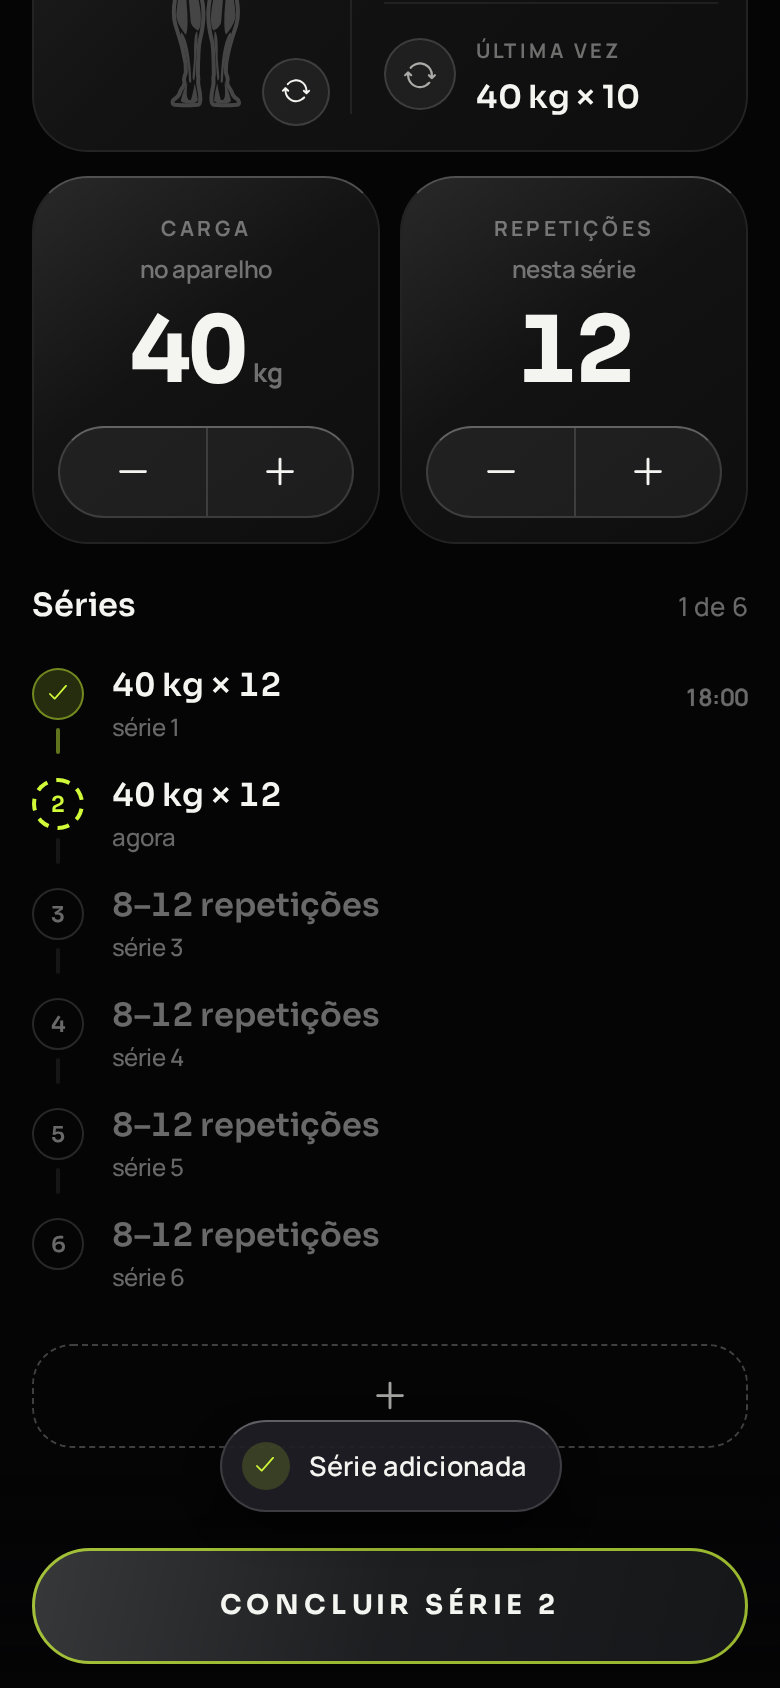
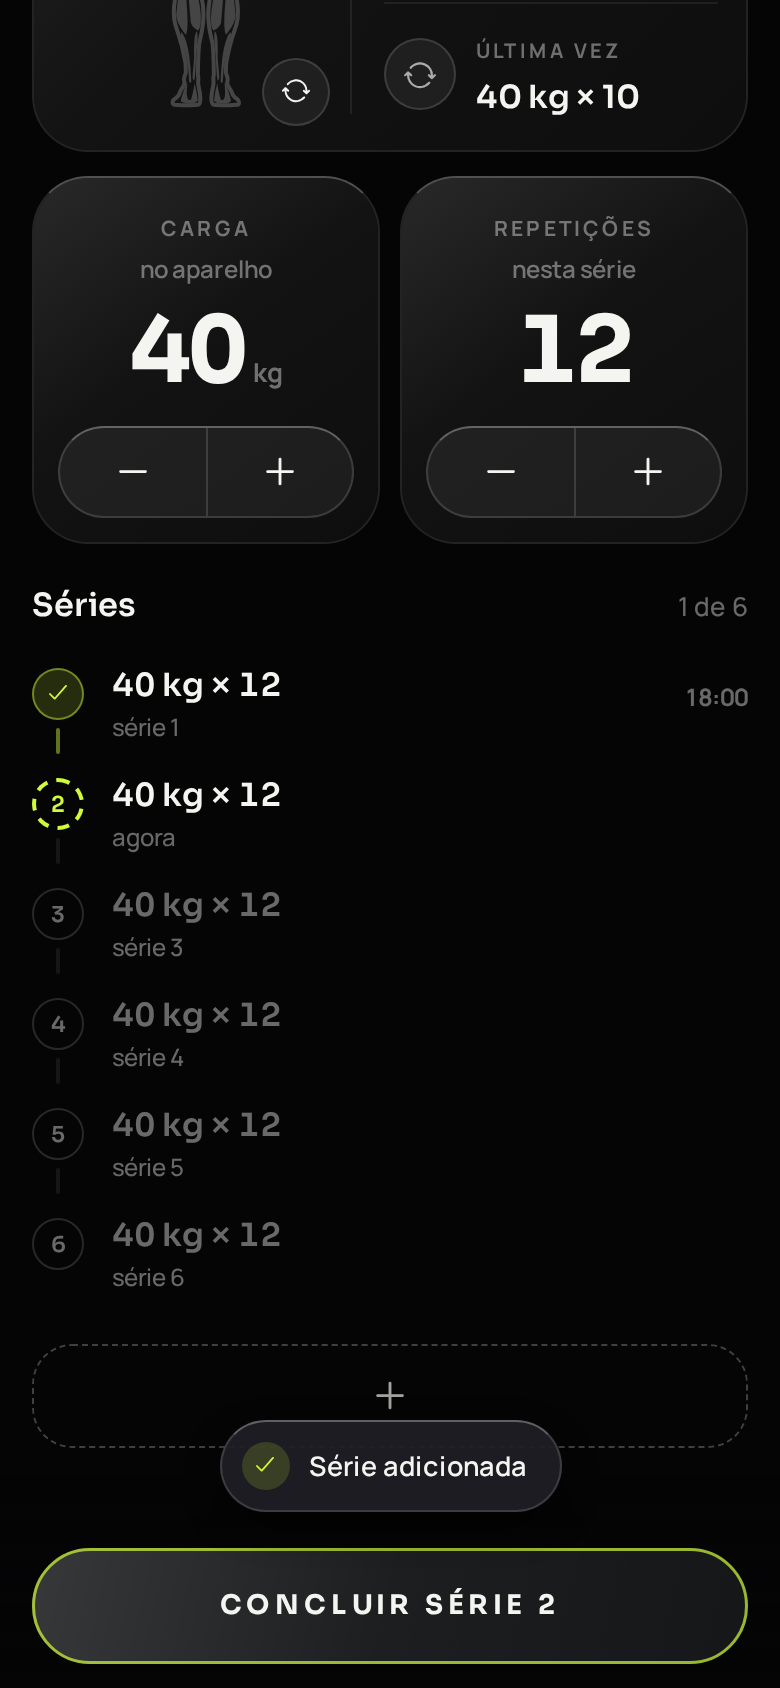
Treino ao vivo: séries que faltam (e as adicionadas) mostram a carga e as repetições das anteriores
Claude-Session: https://claude.ai/code/session_012t93SzLcEenD5Rt5kwwiQ7

diff --git a/src/app/treino-sessao.tsx b/src/app/treino-sessao.tsx
@@ -303,7 +303,7 @@ export default function TreinoSessaoScreen() {
           </View>
         )}
 
-        {/* Séries em linha do tempo */}
+        {/* Séries em linha do tempo: as que faltam (e as que forem adicionadas) seguem o padrão das anteriores */}
         <View style={styles.seriesCab}>
           <Text style={styles.seriesTitulo}>Séries</Text>
           <Text variant="caption" tone="muted">
@@ -317,7 +317,7 @@ export default function TreinoSessaoScreen() {
               numero={i + 1}
               serie={set}
               atual={!set && i === done}
-              previa={!set && i === done ? `${formatDecimal(input.kg)} kg × ${input.reps}` : `${reps} repetições`}
+              previa={`${formatDecimal(input.kg)} kg × ${input.reps}`}
               ultima={i === rows.length - 1}
               onApagar={
                 set ? () => confirmDestructive('Apagar série?', `${formatDecimal(set.cargaKg)} kg × ${set.reps}`, 'Apagar', () => apagarSerie(exercise.id, set.numero)) : undefined
